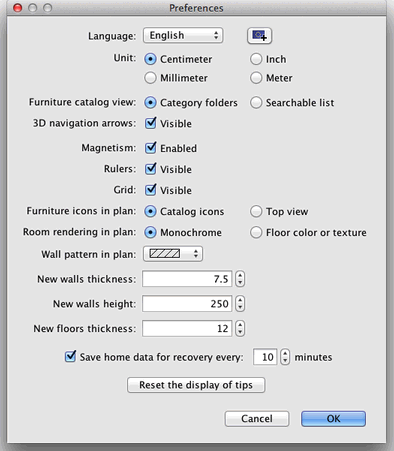
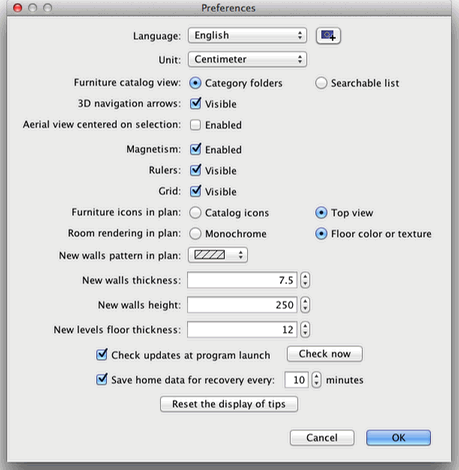
Updated help for version 4.0
git-svn-id: https://svn.code.sf.net/p/sweethome3d/code/trunk@3953 03e323e1-6c6c-46a5-9f71-c4ce5d8c6204

Changed region(s): [[0.0, 0.0, 1.0, 0.9933], [0.6396, 0.4346, 0.9442, 0.5277], [0.6396, 0.2173, 0.8528, 0.2483]]

diff --git a/com/eteks/sweethome3d/viewcontroller/resources/help/fr/editingPreferences.html b/com/eteks/sweethome3d/viewcontroller/resources/help/fr/editingPreferences.html
@@ -29,18 +29,22 @@
 	<td><p>Pour &eacute;diter les pr&eacute;f&eacute;rences de Sweet Home 3D, choisissez <i>Sweet Home 3D &gt; Pr&eacute;f&eacute;rences...</i> sous
 	    Mac OS X ou <i>Fichier &gt; Pr&eacute;f&eacute;rences...</i> sous les autres syst&egrave;mes d'exploitation.</p>
 	    <p align="center"><img src="images/editingPreferences.png"></p>
-	  <p>Dans le panneau des pr&eacute;f&eacute;rences, vous pouvez choisir la <i>Langue</i> utilis&eacute;e dans l'interface utilisateur
-	    de Sweet Home 3D et l'<i>Unit&eacute;</i> utilis&eacute;e
+	  <p>Dans le panneau des pr&eacute;f&eacute;rences,  la liste d&eacute;roulante <i>Langue</i> vous permet de choisir la langue utilis&eacute;e dans l'interface utilisateur
+	    de Sweet Home 3D et le bouton &agrave; sa droite d'importer des fichiers de langues avec une extensions SH3L.<br>
+	    La liste d&eacute;roulante <i>Unit&eacute;</i> vous permet de choisir l'unit&eacute; utilis&eacute;e
 	    pour dessiner les r&egrave;gles et la grille du plan du
-	    logement, et pour afficher les longueurs. <br>
-	    Le bouton &agrave; c&ocirc;t&eacute; de la liste d&eacute;roulante <i>Langue</i> vous permet aussi d'importer des fichiers de langues avec une extensions SH3L. </p>
+	    logement, ainsi que pour afficher les longueurs et les aires.	Pour le syst&egrave;me m&eacute;trique, vous pouvez choisir le <i>Millim&egrave;tre</i>, le <i>Centim&egrave;tre</i> ou le  <i>M&egrave;tre</i>, et le syst&egrave;me imp&eacute;rial propose les deux unit&eacute;s suivantes&nbsp;: l'unit&eacute; <i>Pied/Pouce/Fraction</i> 
+	    qui affiche une longueur en pieds et pouces suivie de la fraction d'un huiti&egrave;me de pouce la plus proche, comme dans 
+	    <b>20'10&#8539;&quot;</b>, et l'unit&eacute; <i>Pouce/D&eacute;cimales</i> qui affiche une longueur seulement en pouces suivie des d&eacute;cimales de pouce, comme dans <b>250.122&quot;</b>. Pour les aires, l'unit&eacute; <i>Pied/Pouce/Fraction</i> affiche toujours la valeur la plus proche en pieds carr&eacute;, tandis que l'unit&eacute; <i>Pouce/D&eacute;cimales</i> affiche des d&eacute;cimales 
+	    si besoin.</p>
 	    <p> Les boutons radio <i>Dossiers de cat&eacute;gorie </i>et <i>Liste 
           avec recherche </i>permettent de choisir le mode d'affichage du catalogue 
-          de meubles dans chaque <a href="ui.html">fen&ecirc;tre Sweet Home 3D</a>.<br>
-          La bo&icirc;te &agrave; cocher <i>Fl&egrave;ches de navigation 3D</i> 
-          permet d'afficher ou non les boutons en forme de fl&egrave;ches d'aide 
-          &agrave; la <a href="editing3DView.html">navigation dans la vue 3D</a>.</p>
-        <p> La bo&icirc;te &agrave; cocher <i>Magn&eacute;tisme</i> active ou 
+          de meubles dans chaque <a href="ui.html">fen&ecirc;tre Sweet Home 3D</a>.        </p>
+	    <p>	      La bo&icirc;te &agrave; cocher <i>Fl&egrave;ches de navigation 3D</i> permet d'afficher ou non les boutons en forme de fl&egrave;ches d'aide 
+          &agrave; la <a href="editing3DView.html">navigation dans la vue 3D</a>.<br>
+          Quand elle est activ&eacute;e, l'option <i>Vue a&eacute;rienne centr&eacute;e sur la s&eacute;lection</i> centrera la vue a&eacute;rienne 3D sur les &eacute;l&eacute;ments s&eacute;lectionn&eacute;s dans le plan 2D. Si aucun &eacute;l&eacute;ment n'est s&eacute;lectionn&eacute; ou si cette option est d&eacute;sactiv&eacute;e, 
+          la vue a&eacute;rienne sera centr&eacute;e sur le mileu du logement, qui peut changer en fonction de son contenu.</p>
+	    <p>La bo&icirc;te &agrave; cocher <i>Magn&eacute;tisme</i> active ou 
           d&eacute;sactive le magn&eacute;tisme utilis&eacute; dans le plan du 
           logement au cours du positionnement des meubles, et du dessin des murs, des pi&egrave;ces et des cotes.<br>
           La bo&icirc;te &agrave; cocher <i>R&egrave;gles</i> permet de rendre 
@@ -56,11 +60,14 @@
           remplies dans le plan avec la couleur ou de la texture que vous avez 
           choisies pour leur plancher, ou en gris (en blanc &agrave; l'impression).<br>
           La liste d&eacute;roulante <i>Motif des murs dans le plan</i> permet 
-          de choisir le motif de remplissage des murs dans le plan.</p>
-	  <p>La valeur de l'<i>Epaisseur des nouveaux murs</i> d&eacute;termine l'&eacute;paisseur des murs qui seront cr&eacute;&eacute;s
+          de choisir le motif de remplissage des murs dans le plan.<br>
+          La valeur de l'<i>Epaisseur des nouveaux murs</i> d&eacute;termine l'&eacute;paisseur des murs qui seront cr&eacute;&eacute;s
 	        une fois que le panneau des pr&eacute;f&eacute;rences sera ferm&eacute;.<br>
           La valeur de la <i>Hauteur des nouveaux murs</i> d&eacute;termine la hauteur des futurs murs.<br>
-	        La valeur de l'<i>Epaisseur des nouveaux planchers</i> d&eacute;termine l'&eacute;paisseur des planchers des futurs niveaux.	  </p>
+          La valeur de l'<i>Epaisseur des nouveaux planchers</i> d&eacute;termine l'&eacute;paisseur des planchers des futurs niveaux.</p>
+<p>Si elle est s&eacute;lectionn&eacute;e, l'option <i>V&eacute;rifier les mises &agrave; jour au lancement du programme</i> v&eacute;rifiera si des mises &agrave; jours de Sweet Home 3D sont disponibles ou non &agrave; chaque fois que le programme est  lanc&eacute;, 
+  et affichera des informations sur celles-ci dans une bo&icirc;te de dialogue. Cette option v&eacute;rifie aussi la disponibilit&eacute; de mises &agrave; jours pour les biblioth&egrave;ques de meubles (fichiers SH3F), les biblioth&egrave;ques de textures (fichiers SH3T), les fichiers de langues (fichiers SH3L) et les plug-ins 
+  (fichiers SH3P) que vous avez install&eacute;s, en fonction de leur configuration. </p>	  
 	  <p>La valeur du champ associ&eacute; &agrave; la bo&icirc;te &agrave; 
           cocher <i>Enregistrer les donn&eacute;es de r&eacute;cup&eacute;ration</i> 
           d&eacute;termine le d&eacute;lai en minutes qui s'&eacute;coule entre 
@@ -82,7 +89,7 @@
           <td><img src="../images/coloredRendering.png" width="332" height="296"></td>
         </tr>
         <tr>
-          <td align="center" valign="top">Rendu du plan par d&eacute;faut avec les ic&ocirc;nes du catalogue,<br>
+          <td align="center" valign="top">Rendu du plan avec les ic&ocirc;nes du catalogue,<br>
       les planchers monochromes et les murs hachur&eacute;s</td>
           <td align="center" valign="top">Rendu du plan avec les meubles vus de dessus,<br>
       les planchers color&eacute;s, et les murs en noir</td>
@@ -140,6 +147,12 @@
               <td><p>Une fois qu'un mur est cr&eacute;&eacute;, vous pouvez <a href="editingWalls.html">changer</a> 
                   son &eacute;paisseur et sa hauteur, quelque soit les valeurs 
                   choisies dans le panneau des pr&eacute;f&eacute;rences.</p></td>
+            </tr>
+            <tr valign="top"> 
+              <td width="16"><p>&#149;</p></td>
+              <td><p>Les  informations sur les mises &agrave; jour ne peuvent &ecirc;tre obtenues que si votre ordinateur a acc&egrave;s &agrave; Internet. 
+              En cas de doute, cliquez sur le bouton <i>V&eacute;rifier maintenant</i> pour afficher les mises &agrave; jour disponibles, 
+              ou un message sp&eacute;cifiant qu'aucune mise &agrave; jour n'est disponible, ou un message d'erreur stipulant que les mises &agrave; jour n'ont pu &ecirc;tre lues.</p></td>
             </tr>
           </table></td>
 	</tr>

diff --git a/com/eteks/sweethome3d/viewcontroller/resources/help/en/editingPreferences.html b/com/eteks/sweethome3d/viewcontroller/resources/help/en/editingPreferences.html
@@ -29,15 +29,25 @@
 	<td><p>To edit Sweet Home 3D preferences, choose <i>Sweet Home 3D &gt; Preferences...</i> under Mac OS X or <i>File &gt; Preferences...</i> under
 	    other systems.</p>
 	    <p align="center"><img src="images/editingPreferences.png"></p>
-	  <p>In the preferences pane, you can choose the <i>Language</i> used in Sweet Home 3D user interface and the <i>Unit</i> used
-	    to draw  the rulers and grid of the home plan, and to display lengths and areas.<br>
-	    The button beside the <i>Language</i> drop down list lets you also import some additional languages library files with a SH3L extension. </p>
-	    <p> The <i>Category folders</i> and the <i>Searchable list</i> radio buttons 
+	  <p>In the preferences pane, the <i>Language</i> drop down list lets you choose the language used in the user interface of Sweet Home 3D,  
+	  	and the button at its right lets you import some additional languages library files with a SH3L extension. <br>
+	    The <i>Unit</i> drop down list lets you choose the unit used to draw  the rulers and grid of the home plan, 
+	    and to display lengths and areas. <i>Millimeter</i>, <i>Centimeter</i> and <i>Meter</i> units are available 
+	    for the metric system, and two units are proposed for  the imperial system&nbsp;: the <i>Foot/Inch/Fraction</i> 
+	    unit which displays a length in feet and inches followed by the closest eighth inch fraction, like in 
+	    <b>20'10&#8539;&quot;</b>, and the <i>Inch/Decimals</i> unit  which displays lengths only in inches followed 
+	    by decimals of an inch, like in <b>250.122&quot;</b>. For areas, the <i>Foot/Inch/Fraction</i>  always 
+	    displays the closest value in square feet, whereas the <i>Inch/Decimals</i> unit displays some decimals 
+	    when necessary.</p>
+	  <p> The <i>Category folders</i> and the <i>Searchable list</i> radio buttons 
           let you choose how the furniture catalog should be displayed in each 
-          <a href="ui.html">Sweet Home 3D window</a>.<br>
-          The <i>3D navigation arrows</i> check box allows to display arrow buttons 
+        <a href="ui.html">Sweet Home 3D window</a>.</p>
+	  <p>The <i>3D navigation arrows</i> check box allows to display arrow buttons 
           that will help you to <a href="editing3DView.html">navigate in the 3D 
-        view</a>.</p>
+        view</a>.<br>
+        When enabled, the  <i>Aerial view centered on selection</i> option will center the 3D aerial view 
+        on the selected items in the 2D plan. If no item is selected or if this option is disabled, 
+        the aerial view will be centered on the center of the home, that may vary according to the items it contains. </p>
         <p> The <i>Magnetism</i> check box enables or disables the magnetism used 
           in the home plan during <a href="drawingWalls.html">walls drawing</a> 
           and <a href="editingFurniture.html">furniture placing</a>.<br>
@@ -51,13 +61,18 @@
           let you choose whether rooms should be drawn in plan filled with the 
           color or texture you chose for their floor, or with a grey color (printed 
           as white).<br>
-          The <i>Wall pattern in plan</i> combo box lets you choose the pattern 
-          used to fill walls in plan.</p>
-        <p>	      The <i>New walls thickness</i> value sets the thickness of all the walls that will be created once the preferences
+          The <i>New walls pattern in plan</i> drop down list lets you choose the pattern 
+        in the plan used to fill the walls  that will be created once the preferences
 	        pane will be closed.<br>
+          The <i>New walls thickness</i> value sets the thickness of the new walls.<br>
           The <i>New  walls height</i> value 
 	        sets the height of the new walls and of the new levels. <br>
-        The <i>New floors thickness</i> sets the thickness of the floors of new levels. </p>	  
+        The <i>New levels floor thickness</i> sets the thickness of the floors of new levels. </p>
+        <p>When selected, the  <i>Check updates at program launch</i> option will check whether 
+        some updates of Sweet Home 3D are available or not each time the program is launched, 
+        and will display them in a dialog box. This option checks also the availability of some updates for the furniture libraries 
+        (SH3F files),  textures libraries (SH3T files),  language libraries (SH3L files) and plug-ins 
+        (SH3P files) that you installed, depending on how they are configured. </p>	  
         <p>The value of the field associated to the <i>Save home data for recovery</i> 
           check box sets the delay in minutes between two save operations of the 
           opened homes. These homes are automatically saved in private files, 
@@ -75,7 +90,7 @@
           <td><img src="../images/coloredRendering.png" width="332" height="296"></td>
         </tr>
         <tr>
-          <td align="center" valign="top">Default plan rendering with catalog icons,<br>
+          <td align="center" valign="top">Plan rendering with catalog icons,<br>
             monochrome floors and walls filled with a hatch pattern</td>
           <td align="center" valign="top">Plan rendering with top view furniture icons,<br>
             floor colors, and walls filled with black color</td>
@@ -121,11 +136,17 @@
               <td><p>Magnetism set in preferences pane can be temporarily toggled 
               in the home plan, by pressing the <i>Alt</i> key under Windows, the <i>cmd</i> key under Mac OS X or the <i>Shift</i> +<i> Alt</i> keys under Linux.</p></td>
             </tr>
-            <tr valign="top"> 
+            <tr valign="top">
               <td width="16"><p>&#149;</p></td>
               <td><p>Once a wall is created, you may <a href="editingWalls.html">change</a> 
                   its thickness and its height whatever the values you set in 
                   preferences pane.</p></td>
+            </tr>
+            <tr valign="top"> 
+              <td width="16"><p>&#149;</p></td>
+              <td><p>Updates information can be retrieved only if your computer has access to the Internet. 
+              In case of doubts, click on the <i>Check now</i> button to display available updates, 
+              or a message stating that no update is available, or an error message stating udaptes couldn't be read.</p></td>
             </tr>
           </table>
 	</td>

diff --git a/com/eteks/sweethome3d/viewcontroller/resources/help/fr/creatingPhotos.html b/com/eteks/sweethome3d/viewcontroller/resources/help/fr/creatingPhotos.html
@@ -110,8 +110,8 @@
           par le panneau de la <a href="editingCompass.html">boussole</a>. La 
           luminosit&eacute; globale de l'image d&eacute;pend aussi du niveau de 
           l'intensit&eacute; lumineuse choisie dans le panneau de <a href="editing3DView.html">modification 
-          de la vue 3D</a>.</p>
-        <p>Pour terminer, le panneau <i>Cr&eacute;er une photo</i> vous permet 
+          de la vue 3D</a>.<br>
+          Pour terminer, le panneau <i>Cr&eacute;er une photo</i> vous permet 
           de s&eacute;lectionner l'objectif &agrave; utiliser parmi les 4 suivants.</p>
         <table border="0" align="center" cellpadding="0" cellspacing="5">
           <tr align="center"> 
@@ -134,7 +134,8 @@
             <td align="center" valign="top">Objectif <i>Sph&eacute;rique</i></td>
           </tr>
         </table>
-       
+       	<p>Si vous voulez calculer un ensemble de photos en une seule t&acirc;che, enregistrez les points de vue auxquels vous vous int&eacute;ressez avec le menu <i>Vue 3D view &gt; Enregistrer le point de vue...</i> puis choisissez le menu <i>Vue 3D &gt; Cr&eacute;er des photos aux points de vue...</i>. Ce menu affichera une bo&icirc;te de dialogue vous permettant de choisir la taille, la qualit&eacute; et le fomat de fichier des photos, avant de les calculer et les enregistrer dans le dossier de votre choix.  Aux deux meilleurs niveaux de qualit&eacute;, la date/heure et l'objectif utilis&eacute;s &agrave; un point de vue donn&eacute; seront les valeurs que vous avez saisies pr&eacute;c&eacute;demment dans le panneau de cr&eacute;ation de photo, au moment de l'enregistrement de ce point de vue.</p>
+        <p align="center"><img src="images/creatingPhotosAtPointsOfView.png" alt="Create photos at points of view"></p>
         </td>
 	</tr>
 </table>
@@ -209,11 +210,11 @@
             </tr>
             <tr valign="top"> 
               <td><p>&#149;</p></td>
-              <td> <p>La bo&icirc;te de dialogue <i>Cr&eacute;er une photo</i> 
-                  n'est pas modale. Ceci implique qu'elle ne bloque pas les saisies 
+              <td> <p>Les bo&icirc;tes de dialogue <i>Cr&eacute;er une photo</i> 
+                  et <i>Cr&eacute;er des photos aux points de vue</i> ne sont pas modales. Ceci implique qu'ellent ne bloquent pas les saisies 
                   dans d'autres fen&ecirc;tres, ce qui vous permet de modifier 
                   votre logement ou votre point de vue dans la fen&ecirc;tre principale, 
-                  quand cette bo&icirc;te de dialogue est ouverte. </p></td>
+                  quand l'une de ces bo&icirc;tes de dialogue est ouverte. </p></td>
             </tr>
             <tr valign="top"> 
               <td width="16"><p>&#149;</p></td>

diff --git a/com/eteks/sweethome3d/viewcontroller/resources/help/en/creatingPhotos.html b/com/eteks/sweethome3d/viewcontroller/resources/help/en/creatingPhotos.html
@@ -97,8 +97,8 @@
           the latter parameters being managed by the <a href="editingCompass.html">compass</a> 
           pane. The global brightness of the image depends also on the level of 
           the light brightness set in the <a href="editing3DView.html">3D view 
-          modification</a> pane.</p>
-        <p>Finally, the <i>Create photo</i> pane lets you choose also among the 
+          modification</a> pane.<br>
+          Finally, the <i>Create photo</i> pane lets you choose also among the 
           4 different following types of lens.</p>
         <table border="0" align="center" cellpadding="0" cellspacing="5">
           <tr align="center"> 
@@ -121,8 +121,9 @@
             <td align="center" valign="top"><i>Spherical</i> lens</td>
           </tr>
         </table>
-       
-        </td>
+        <p>If you want to  compute a group of photos in the same batch, store the points of view you're interested in with the  <i>3D view &gt; Store point 
+        of view...</i> menu item then select the <i>3D view &gt; Create photos at point of view...</i> menu item. It will display a dialog box that will let you choose the size, the image quality and the file format of the computed images, before computing and saving them in the folder of your choice.  At the two best quality levels, the date/time and lens used for a given rendered point of view will be the values you previously entered in the <i>Create photo</i> pane, at the moment you stored that point of view.</p>
+        <p align="center"><img src="images/creatingPhotosAtPointsOfView.png" alt="Create photos at points of view"></p></td>
 	</tr>
 </table>
 <div id="taskbox">
@@ -187,10 +188,10 @@
             </tr>
             <tr valign="top"> 
               <td><p>&#149;</p></td>
-              <td> <p>The <i>Create photo</i> dialog box isn't modal. This means 
+              <td> <p>The <i>Create photo</i> and <i>Create photos at point of view</i> dialog boxes aren't modal. This means 
                   that it doesn't block the input in other windows and lets you 
-                  modify your home or your point of view in the main window, while 
-                  this dialog box is opened. </p></td>
+                  modify your home or your point of view in the main window, while one of 
+                  these dialog boxes is opened. </p></td>
             </tr>
             <tr valign="top"> 
               <td width="16"><p>&#149;</p></td>

diff --git a/com/eteks/sweethome3d/viewcontroller/resources/help/en/editingWalls.html b/com/eteks/sweethome3d/viewcontroller/resources/help/en/editingWalls.html
@@ -86,7 +86,7 @@
         <p align="center"><img src="images/editingWalls.png"></p>
         <p>In the wall pane, you may change&nbsp;the coordinates of its start 
           and end points, the colors, the textures and the shininess of its left 
-          and right sides, its thickness, its height and its arc extent if it's 
+          and right sides, the pattern used to fill it in the plan, the color used to paint its top in the 3D view, its thickness, its height and its arc extent if it's 
           a round wall.<br>
           If it's a sloping wall of a garret, choose different heights at its start and  end points, and ensure
           yourself that the <i>Sloping wall</i> radio button is selected.<br>
@@ -105,7 +105,7 @@
               <p>&#149;</p>
             </td>
             <td>
-              <p>If you want to modify the colors, the texture, the thickness or the height of a set of walls, select these
+              <p>If you want to modify the colors, the textures, the thickness or the height of a set of walls, select these
                 walls and choose <i>Plan &gt; Modify walls...</i>.
                 The values of the attributes that are different from one wall to another in the selected walls set,
                 will appear  blank  in the walls pane. If   among these walls, a wall isn't correctly oriented, select
@@ -116,9 +116,12 @@
               <p>&#149;</p>
             </td>
             <td>
-              <p>If you want to set different colors on the side of a wall shared by adjacent rooms,   divide
+              <p>If you want to set different colors or textures on the side of a wall shared by adjacent rooms, divide
               it in multiple segments at its <a href="drawingWalls.html">creation</a>. Afterwards, you may also divide a
-              wall in two walls by choosing <i>Plan &gt; Split wall</i>.</td>
+              wall in two walls by choosing <i>Plan &gt; Split wall</i>. If you want to change the color of all the wall 
+              sides around a room, <a href="drawingRooms.html">draw that room</a> if necessary, and select the color of 
+              your choice in the <i>Wall sides around room</i> section of the <a href="editingRooms.html">modification</a> 
+              pane of that room.</td>
           </tr>
           <tr valign="top">
             <td>

diff --git a/com/eteks/sweethome3d/viewcontroller/resources/help/fr/editing3DView.html b/com/eteks/sweethome3d/viewcontroller/resources/help/fr/editing3DView.html
@@ -194,6 +194,12 @@
 	    </tr>
 	  <tr valign="top">
 	    <td><p>&#149;</p></td>
+	    <td><p>Dans le mode <i>Vue a&eacute;rienne</i>, l'observateur tourne autour du centre du logement dans la vue 3D, et ce centre est automatiquement mis	&agrave; jour chaque fois qu'un objet est d&eacute;plac&eacute; ou redimensionn&eacute;. Ce comportement vous assure de toujours voir votre logement enti&egrave;rement sans risque de vous perdre dans la vue 3D. Si vous voulez choisir un point de vue ind&eacute;pendant de ce mode centr&eacute;, vous pouvez activer l'option <i>Vue a&eacute;rienne centr&eacute;e sur la selection</i> dans le panneau des <a href="editingPreferences.html">pr&eacute;f&eacute;rences</a> pour centrer la vue a&eacute;rienne 3D 
+	    	sur les &eacute;l&eacute;ments s&eacute;lectionn&eacute;s dans le plan, ou  utiliser le mode <i>Visiteur virtuel</i> pour choisir n'importe quel point de vue. 
+	    	Si vous voulez voir des pi&egrave;ces cach&eacute;es par des murs, vous pouvez aussi modifier la transparence des murs dans le panneau de modification de la vue 3D.</p></td>
+	    </tr>
+	  <tr valign="top">
+	    <td><p>&#149;</p></td>
 	    <td><p>L'option <i>Ajuster la hauteur des yeux en fonction du niveau s&eacute;lectionn&eacute;</i> est s&eacute;lectionn&eacute;e par d&eacute;faut et disponible aussit&ocirc;t que le logement &eacute;dit&eacute; compte plus d'un <a href="addingLevels.html">niveau</a>. D&eacute;s&eacute;lectionnez-la  si vous pr&eacute;f&eacute;rez conserver la m&ecirc;me &eacute;l&eacute;vation quelque soit le niveau s&eacute;lectionn&eacute; (propablement pour un point de vue ext&eacute;rieur).</p></td>
 	    </tr>
 	  <tr valign="top">

diff --git a/com/eteks/sweethome3d/viewcontroller/resources/help/en/editingFurniture.html b/com/eteks/sweethome3d/viewcontroller/resources/help/en/editingFurniture.html
@@ -113,11 +113,20 @@
           the ordinate (Y) of its center, the elevation of its bottom from the 
           floor, its width, its depth, its height, its color or its texture, its 
           shininess, its visibility, its rotation angle, whether its name should 
-          be displayed in plan or not and whether its 3D model shape should be 
+          be displayed in plan or not, and whether its 3D model shape should be 
           mirrored.<br>
 	    If you make a piece invisible, it won't be drawn in the home plan
 	    and the 3D view, but it will
-	    still appear in the furniture list to let you make it visible again later.</p></td>
+	    still appear in the furniture list to let you make it visible again later.<br>
+	    When one piece is edited
+	    (or if the selected pieces are all the same), you may also click on the <i>Modify</i> button 
+	    shown beside <i>Materials</i> option, to  replace each color or texture of the piece by the 
+	    one of your choice. </p>
+	    <p align="center"><img src="images/editingMaterials.png" alt="Modify furniture"></p>
+	    <p>The <i>Furniture materials</i> pane displays the list of materials you can edit, and a 3D preview 
+	    of the color and texture changes you made, because materials may not always have  some clear or translated names 
+	    (like <i>bone2</i> instead of <i>mattress</i> or <i>flyellow</i> instead of <i>frame</i> in the previous figure). 
+      You can also  rotate the object in the 3D preview with the mouse if necessary.</p></td>
 	</tr>
 </table>
 <div id="taskbox">

diff --git a/com/eteks/sweethome3d/viewcontroller/resources/help/fr/editingFurniture.html b/com/eteks/sweethome3d/viewcontroller/resources/help/fr/editingFurniture.html
@@ -124,7 +124,13 @@ Les meubles modifi&eacute;s avec la souris sont dessin&eacute;s simultan&eacute;
           ou son miroir. <br>
 	     Si vous rendez un meuble invisible, il ne sera pas dessin&eacute; dans le plan du logement et dans
 	     la vue 3D, mais il continuera d'appara&icirc;tre dans
-	    la liste des meubles pour vous permettre de le rendre &agrave; nouveau visible ult&eacute;rieurement.</p></td>
+	    la liste des meubles pour vous permettre de le rendre &agrave; nouveau visible ult&eacute;rieurement.
+	    <br>
+	    Quand un meuble est &eacute;dit&eacute;
+	    (ou si les meubles s&eacute;lectionn&eacute;s sont tous les m&ecirc;mes), vous pouvez aussi cliquer sur le bouton <i>Modifier</i> en regard de l'option <i>Mat&eacute;riaux</i>, pour remplacer chaque couleur ou chaque texture du meuble par celle de votre choix. </p>
+	    <p align="center"><img src="images/editingMaterials.png" alt="Modify furniture"></p>
+	    <p>Le panneau <i>Mat&eacute;riaux du mobilier</i> affiche la liste des mat&eacute;riaux que vous pouvez modifier, ainsi qu'un aper&ccedil;u 3D des modifications de couleur et de texture en cours, les mat&eacute;riaux n'ayant pas toujours des noms clairs ou en fran&ccedil;ais (comme <i>bone2</i> &agrave; la place de <i>matelas</i> ou <i>flyellow</i>&agrave; la place de <i>cadre de lit </i> dans la figure pr&eacute;c&eacute;dente). 
+      Si besoin, vous pouvez aussi faire tourner l'objet dans l'aper&ccedil;u 3D &agrave; l'aide de  la souris.</p></td>
 	</tr>
 </table>
 <div id="taskbox">

diff --git a/com/eteks/sweethome3d/viewcontroller/resources/help/en/editing3DView.html b/com/eteks/sweethome3d/viewcontroller/resources/help/en/editing3DView.html
@@ -178,6 +178,15 @@
 	    </tr>
 	  <tr valign="top">
 	    <td><p>&#149;</p></td>
+	    <td><p>In <i>Aerial view</i> mode, the observer  turns around the center of the home in the 3D view and this center is automatically 
+	    	updated each time the objects are moved or resized. This behavior ensures you always see your home entirely with no way to get 
+	    	lost in the 3D view. If you want to use a point of view that won't depend on this centered mode, you may enable the 
+	    	<i>Aerial view centered on selection</i> option in the <a href="editingPreferences.html">preferences</a> pane to center the 3D 
+	    	aerial view on the selected items in the 2D plan, or  use the <i>Virtual visit</i> mode which lets you choose any point of view. 
+	    	If you want to see some rooms hidden by walls, you may also set the walls transparency in the modification pane of the 3D view.</p></td>
+	    </tr>
+	  <tr valign="top">
+	    <td><p>&#149;</p></td>
 	    <td><p>The  <i>Adjust eyes elevation according to the selected level</i>  option is selected by default and available only if the edited home has more than one <a href="addingLevels.html">level</a>. Unselect it if you want to keep the same elevation whatever level is selected (propably for an exterior point of view).</p></td>
 	    </tr>
 	  <tr valign="top">

diff --git a/com/eteks/sweethome3d/viewcontroller/resources/help/fr/editingRooms.html b/com/eteks/sweethome3d/viewcontroller/resources/help/fr/editingRooms.html
@@ -89,7 +89,15 @@
           Vous pouvez aussi choisir si le plancher et le plafond de la pi&egrave;ce 
           s&eacute;lectionn&eacute;e doivent &ecirc;tre affich&eacute;s dans la 
           vue 3D, et si oui, avec quelle couleur, quelle texture et &agrave; quelle 
-        brillance.</p>
+        brillance.<br>
+        Quand la pi&egrave;ce s&eacute;lectionn&eacute;e touche ou est tr&egrave;s proche d'un ou plusieurs murs, le panneau de la pi&egrave;ce affiche aussi une section <i>Murs autour de la pi&egrave;ce </i>qui vous permet de choisir la couleur ou la texture du c&ocirc;t&eacute; des murs qui se situent le long de la pi&egrave;ce ou sont dans la pi&egrave;ce. Si besoin, cette section propose une option <i>Recalculer les murs</i> qui si elle est s&eacute;lectionn&eacute;e, divisera automatiquement les murs qui s'&eacute;tendent le long des autres pi&egrave;ces environnantes.</p>
+        <table align="center"><tr>
+          <td><img src="../images/notRecomputedWallsAroundRoom.png" border="1" ></td>
+		  <td>&nbsp;</td>
+		  <td><img src="../images/recomputedWallsAroundRoom.png" border="1"></td></tr>
+	      <tr><td align="center"><i>Not recomputed walls</i></td>
+	      <td></td>
+	      <td align="center"><i>Recomputed walls</i></td></tr></table></td>
       </td>
   </tr>
 </table>

diff --git a/com/eteks/sweethome3d/viewcontroller/resources/help/fr/editingWalls.html b/com/eteks/sweethome3d/viewcontroller/resources/help/fr/editingWalls.html
@@ -121,11 +121,12 @@
               <p>&#149;</p>
             </td>
             <td>
-              <p>Si vous voulez positionner des couleurs diff&eacute;rentes sur le c&ocirc;t&eacute; d'un mur partag&eacute; par
+              <p>Si vous voulez choisir des couleurs ou des textures diff&eacute;rentes sur le c&ocirc;t&eacute; d'un mur partag&eacute; par
                 des pi&egrave;ces adjacentes,
                 divisez le en plusieurs segments
                 &agrave; sa <a href="drawingWalls.html">cr&eacute;ation</a>. Apr&egrave;s sa cr&eacute;ation, vous pouvez aussi le diviser
-                en deux murs en choisissant l'&eacute;l&eacute;ment de menu <i>Plan &gt; Diviser le mur</i>.</td>
+                en deux murs en choisissant l'&eacute;l&eacute;ment de menu <i>Plan &gt; Diviser le mur</i>. Si vous voulez modifier la couleur de tous les c&ocirc;t&eacute;s des murs situ&eacute;s autour d'une pi&egrave;ce, <a href="drawingRooms.html">dessinez cette pi&egrave;ce</a> si besoin, et s&eacute;lectionnez la couleur de votre choix dans la section <i>Murs autour de la pi&egrave;ce </i>du panneau de <a href="editingRooms.html">modification</a> 
+              de cette pi&egrave;ce.</p></td>
           </tr>
           <tr valign="top">
             <td>

diff --git a/com/eteks/sweethome3d/viewcontroller/resources/help/en/editingRooms.html b/com/eteks/sweethome3d/viewcontroller/resources/help/en/editingRooms.html
@@ -84,8 +84,18 @@
           plan or not.<br>
           You may also choose whether the floor and the ceiling of the selected 
           room should be displayed in the 3D view, and set their color, their 
-          texture and their shininess.</p>
-      </td>
+          texture and their shininess.<br>
+          When  the selected room touches or is very close to one or more walls, the room pane displays 
+          also a <i>Wall sides around room</i> section that will let you choose the color or the texture 
+          of the side of the walls lying along the room or in the room. If necessary, this section provides a 
+          <i>Recompute walls</i> option that if selected, will automatically split the walls spreading along the other nearby rooms.</p>
+        <table align="center"><tr>
+          <td><img src="../images/notRecomputedWallsAroundRoom.png" border="1" ></td>
+		  <td>&nbsp;</td>
+		  <td><img src="../images/recomputedWallsAroundRoom.png" border="1"></td></tr>
+	      <tr><td align="center"><i>Not recomputed walls</i></td>
+	      <td></td>
+	      <td align="center"><i>Recomputed walls</i></td></tr></table></td>
   </tr>
 </table>
 <div id="taskbox">
